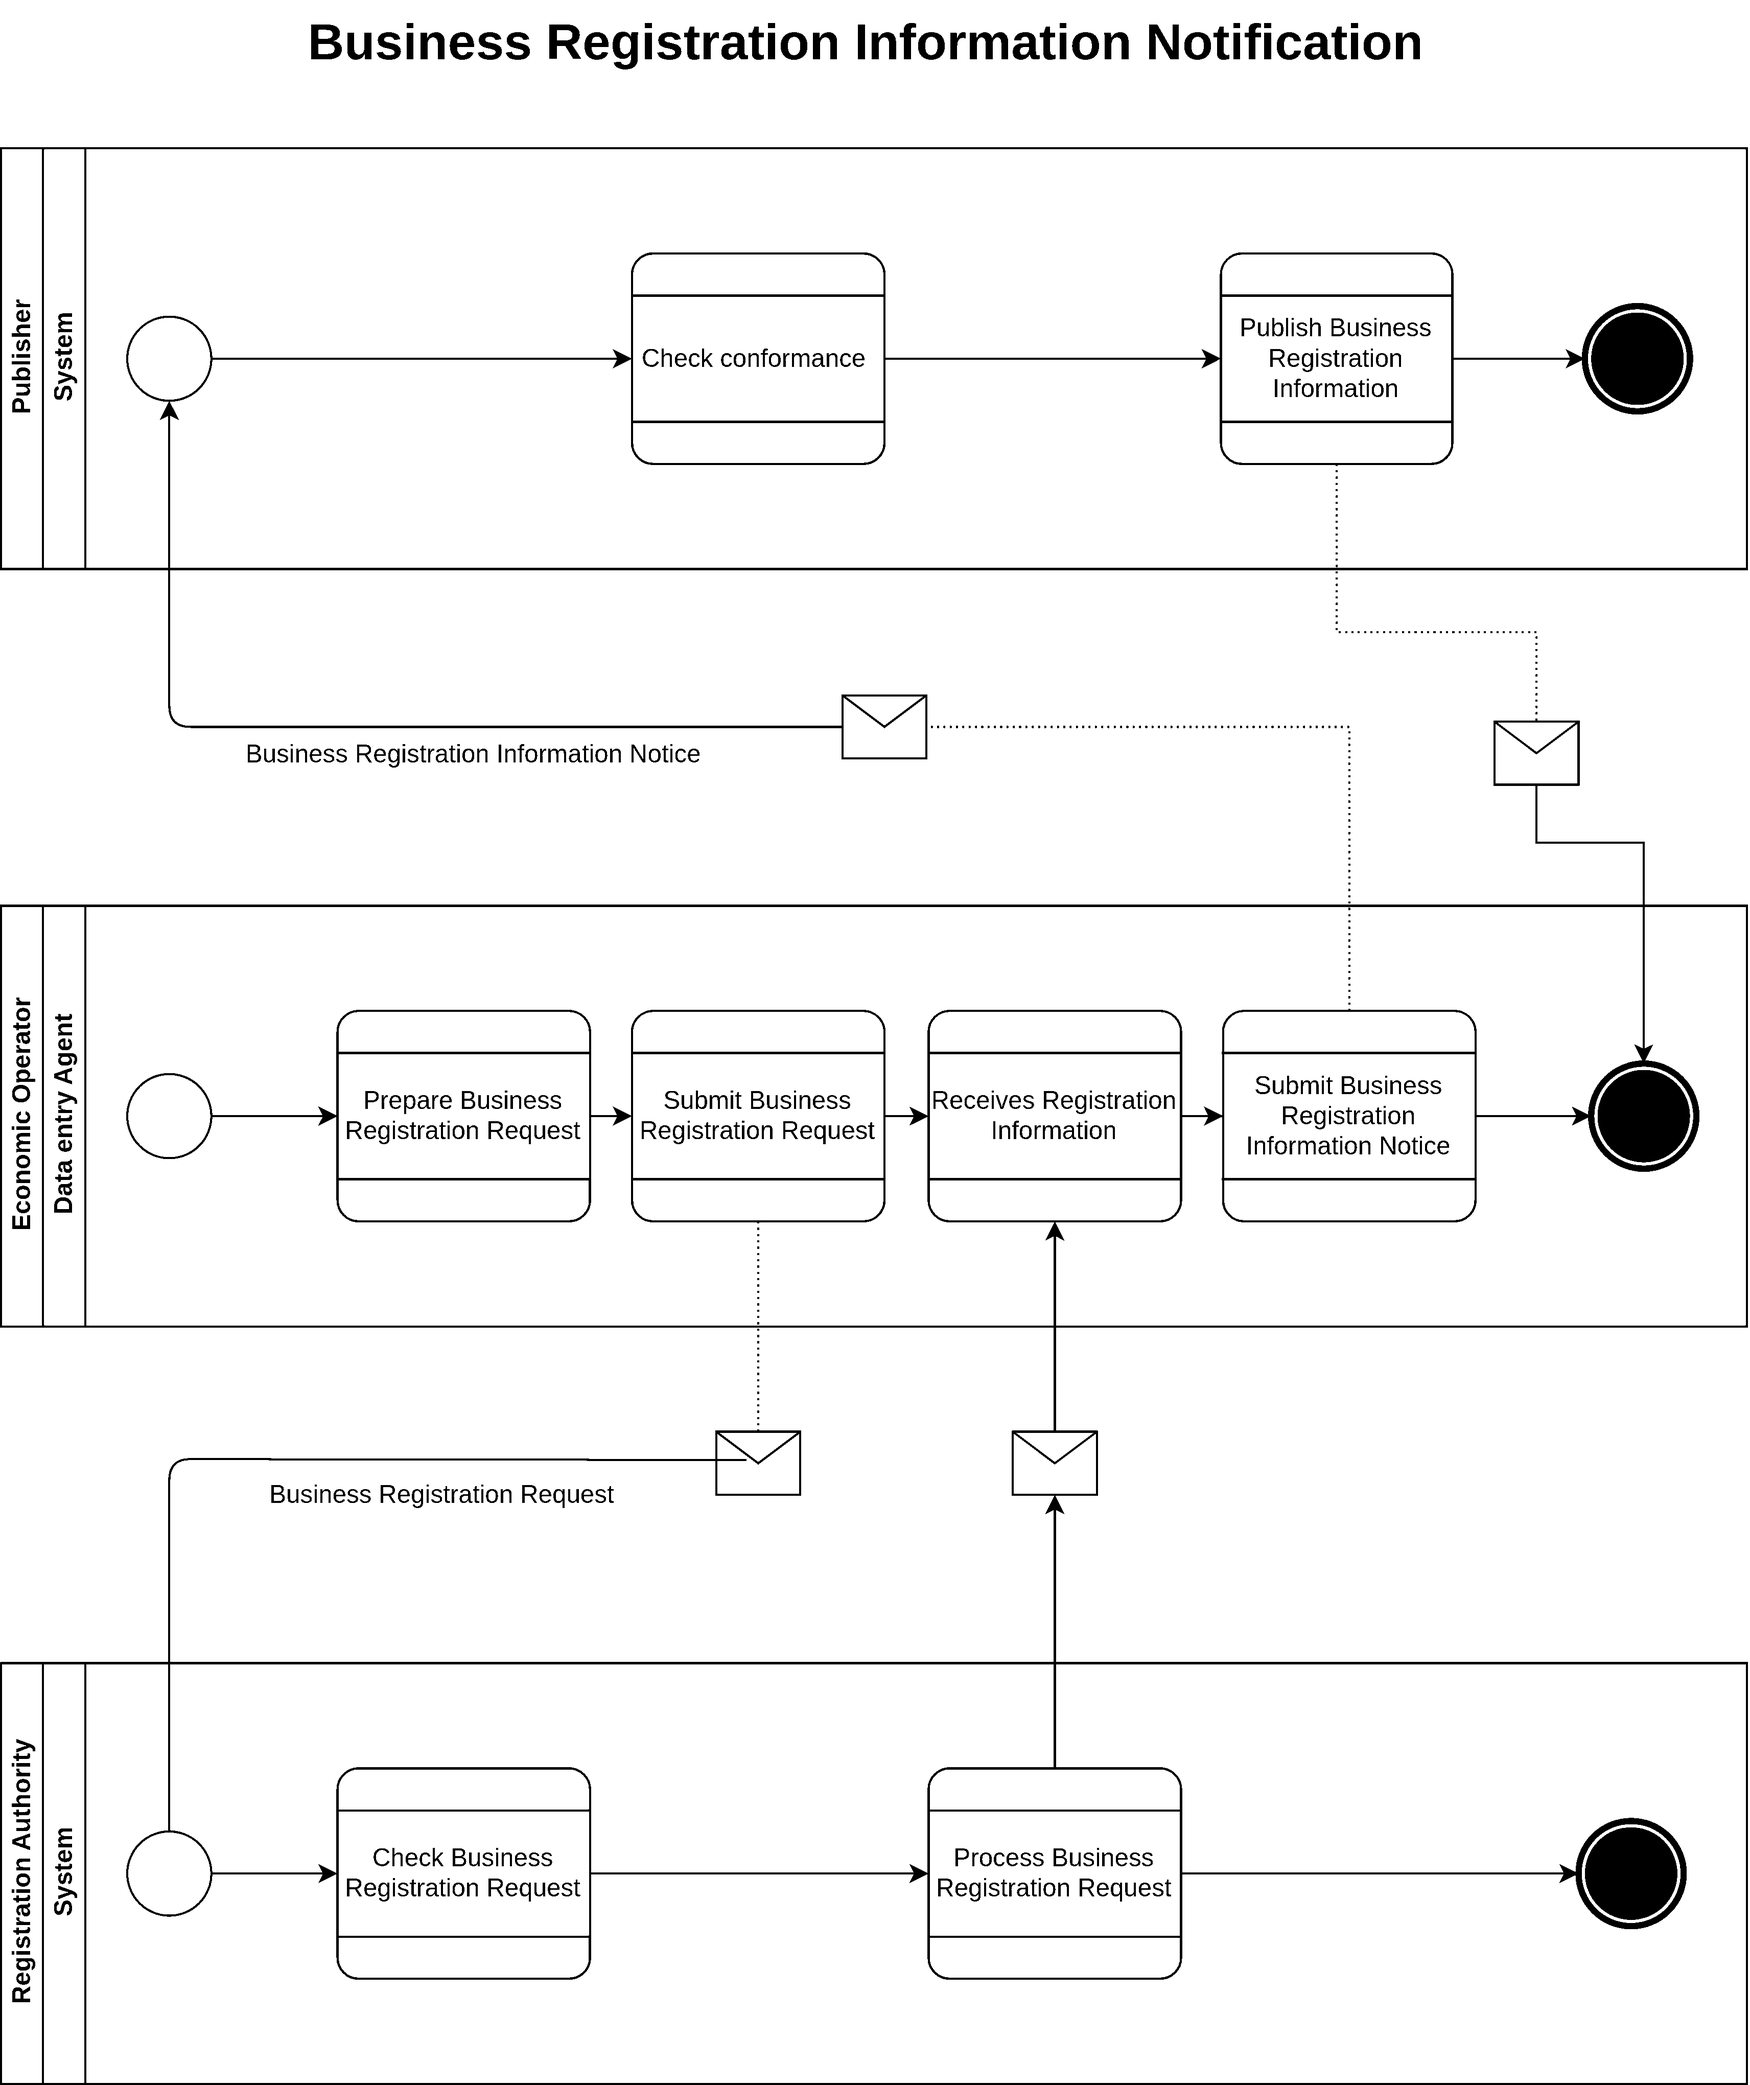
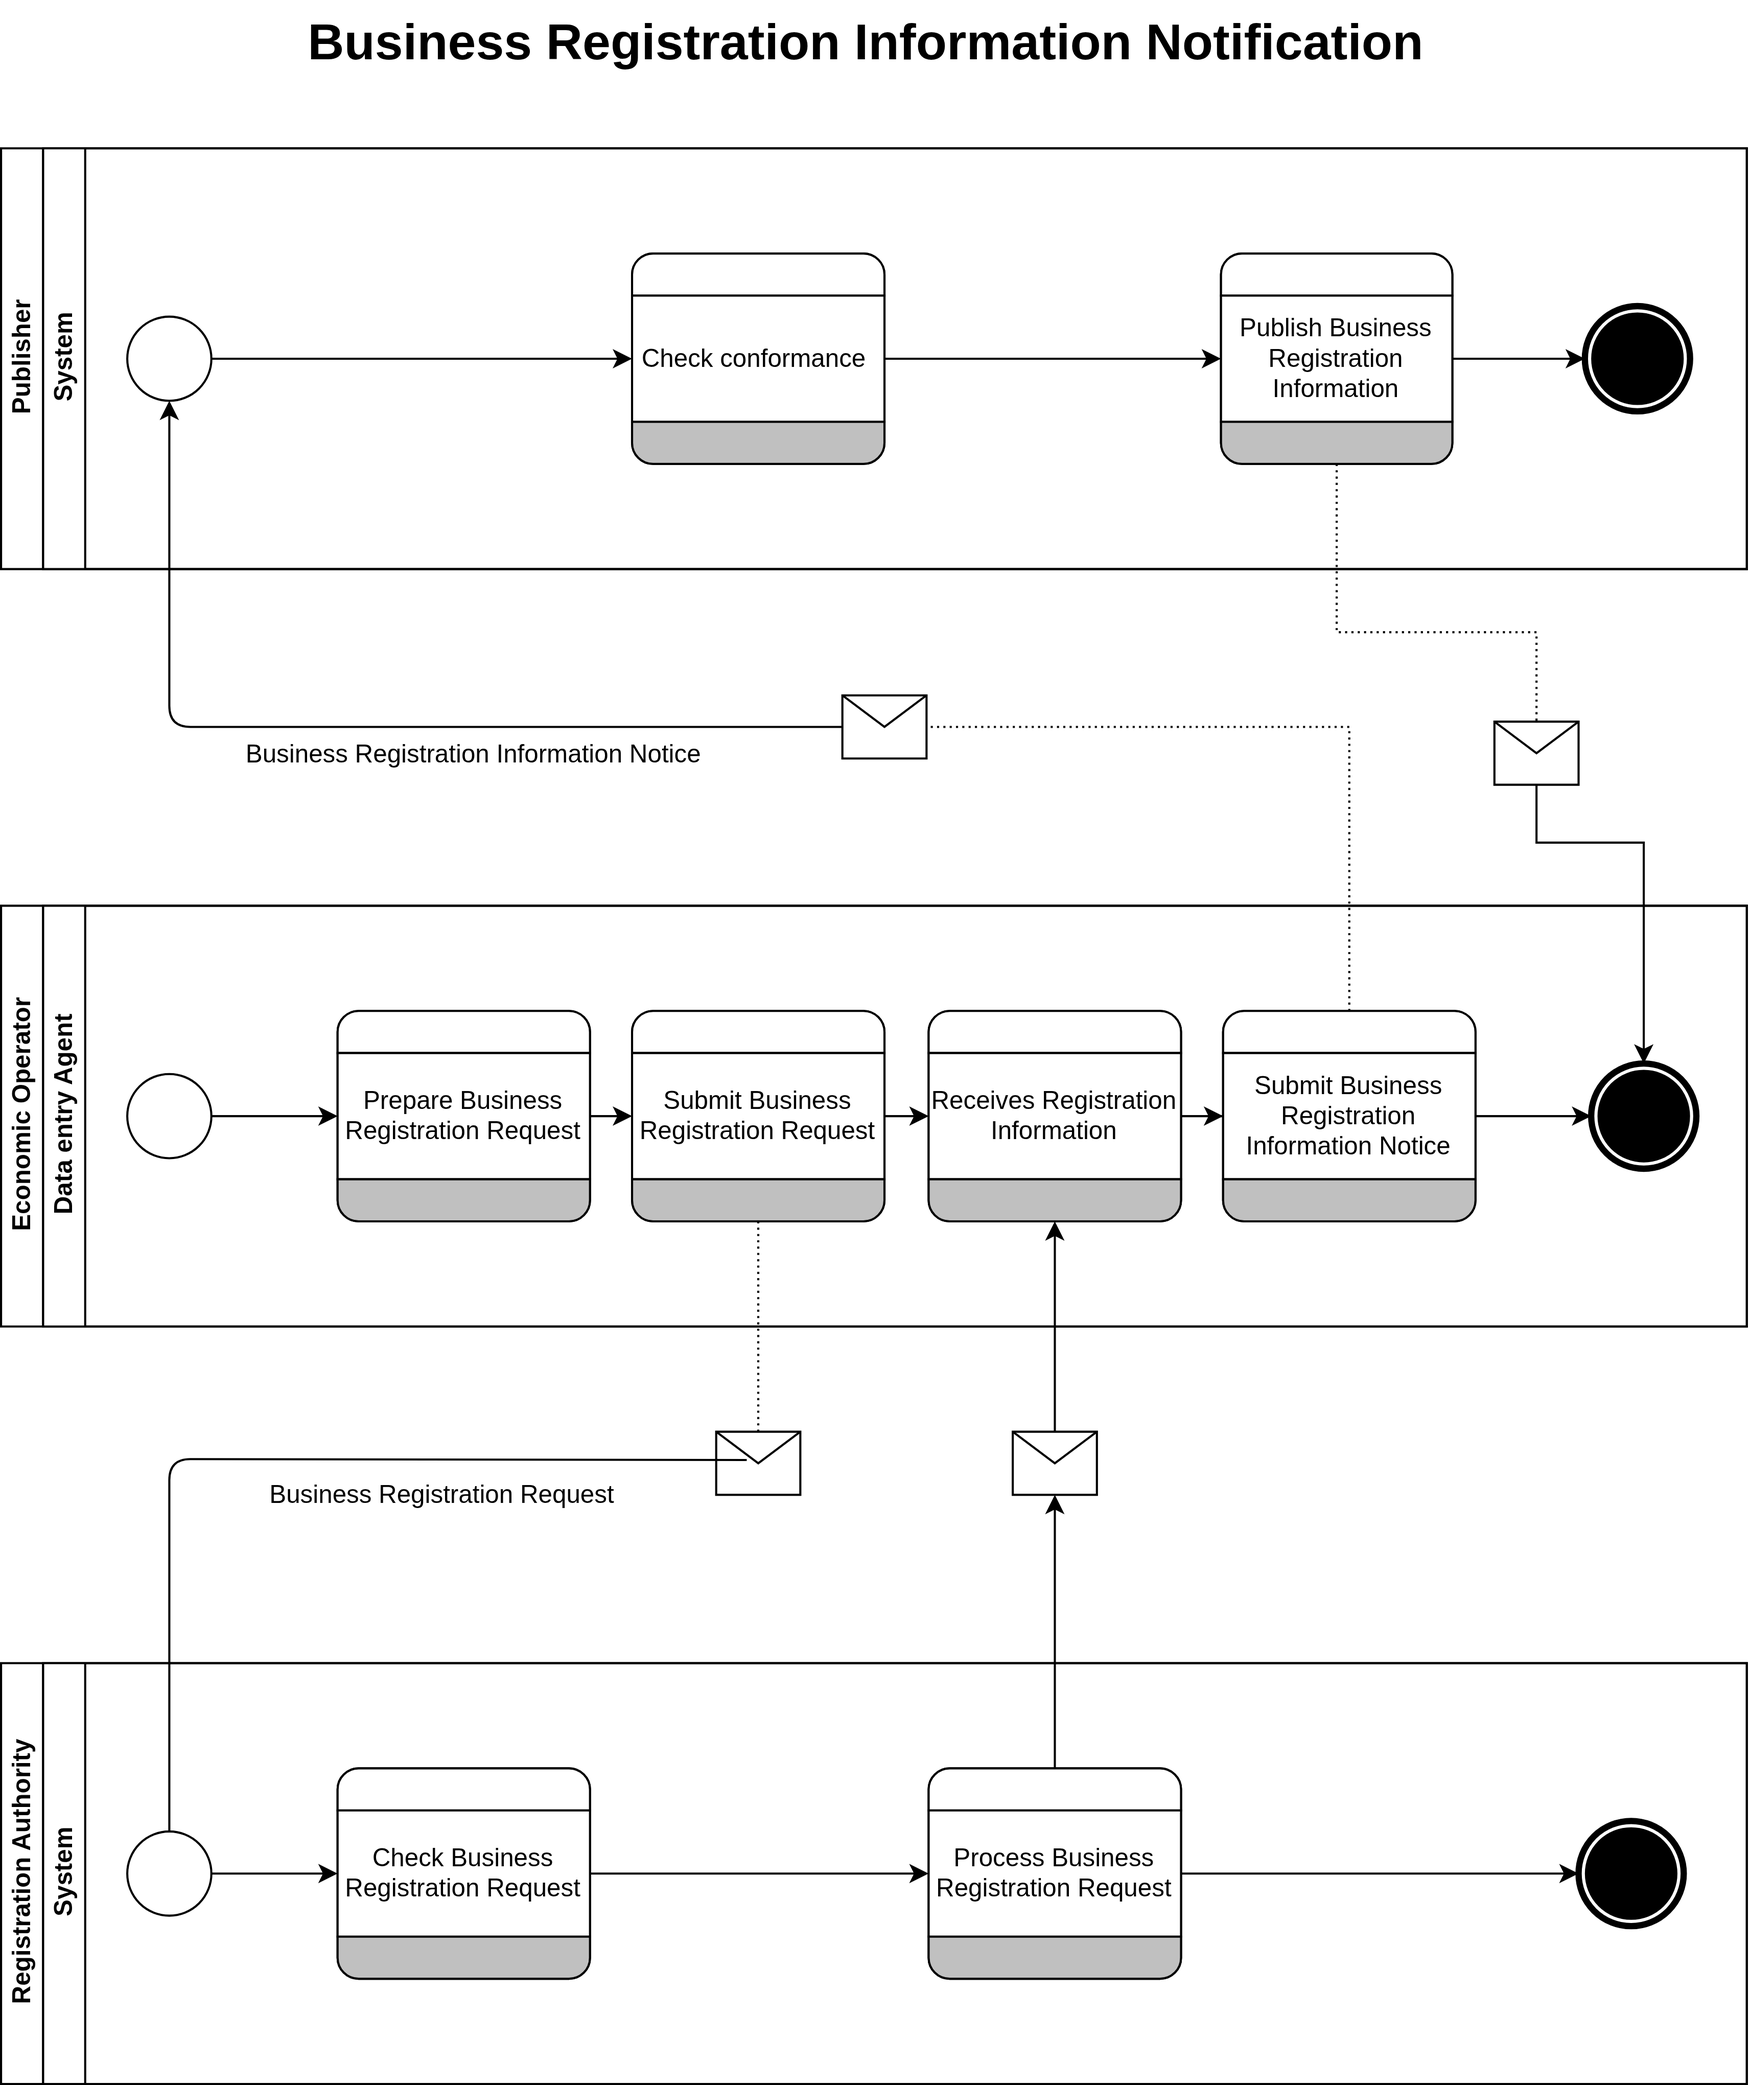
Business Information: the print PNG is greyscale, as the UBL repository's, so the grey footer of its tasks stays
The drawing's marker says ubl-art="grey"; export_drawio.js and check_svg.py read it.

Claude-Session: https://claude.ai/code/session_017KinGBtuGgXkNBHPj2ZMLi

diff --git a/tools/export_drawio.js b/tools/export_drawio.js
@@ -439,7 +439,9 @@ async function png(browser, svgText, pxW, pxH, dpi, bits, out) {
     const htmlW = Math.round(artW * HTML_MAX / ART_MAX);          // 750 at the page's width
     const tall = w => Math.round(w * r.height / r.width);
     // print: black and white, as line art is printed; an illustration's pictures, in grey
-    await png(browser, r.svg, artW, tall(artW), ART_DPI, r.illustration ? 8 : 1, path.join(outDir, 'art', name + '.png'));
+    // (a figure whose drawing says ubl-art="grey", as an illustration, has greyscale print: its grey is meant)
+    const grey = r.illustration || (!file.endsWith('.svg') && /ubl-art="grey"/.test(fs.readFileSync(file, 'utf8')));
+    await png(browser, r.svg, artW, tall(artW), ART_DPI, grey ? 8 : 1, path.join(outDir, 'art', name + '.png'));
     await png(browser, r.svg, htmlW, tall(htmlW), 96, 8, path.join(outDir, 'htmlart', name + '.png'));
     const textPt = Math.round(12 * r.scale * 72 / 96 * 10) / 10;   // the drawings' one text size (12 px)
     report[name] = { width: r.width, height: r.height, scale: Math.round(r.scale * 1000) / 1000,

diff --git a/history/group-a/adopt_originals.py b/history/group-a/adopt_originals.py
@@ -10,7 +10,9 @@ sources here too, at the place and under the name of the others: diagrams/<figur
         - uncompressed, and in the form draw.io's editor writes (tools/drawio_format.py);
           `host` and `agent` of <mxfile>, the page and the window size are the file's own;
         - one element carries `ubl-notation` (bpmn, phase-map): the sign that this figure is not a
-          UML activity diagram, which tools/check_drawio.py and the export look for;
+          UML activity diagram, which tools/check_drawio.py and the export look for; Business
+          Information's also `ubl-art="grey"`: its print PNG is 8 bit grey, not 1 bit (the grey
+          footer of its tasks, which the UBL repository's PNG has);
         - Procurement only: a stray dashed line, 4000 px right of the figure and not in its PNG,
           is taken out: it made the export's page three times too wide.
   UBL-2.3-OrderingProcess (.svg)
@@ -26,14 +28,15 @@ ROOT = os.path.abspath(os.path.join(HERE, '..', '..'))
 sys.path.insert(0, os.path.join(ROOT, 'tools'))
 import drawio_format  # noqa: E402
 
-FIGURES = {   # figure: notation, a cell to take out
-    'UBL-2.3-Pre-awardProcess': ('phase-map', None),
-    'UBL-2.3-ProcurementProcess': ('phase-map', 'H2ljDLKrGr7yGGcZbY4q-120'),
-    'UBL-2.4-BusinessInformation': ('bpmn', None),
+FIGURES = {   # figure: notation, a cell to take out, more properties for the marker
+    'UBL-2.3-Pre-awardProcess': ('phase-map', None, {}),
+    'UBL-2.3-ProcurementProcess': ('phase-map', 'H2ljDLKrGr7yGGcZbY4q-120', {}),
+    # its tasks have a grey (#C0C0C0) footer, which the UBL repository's PNG shows: the print PNG is greyscale too
+    'UBL-2.4-BusinessInformation': ('bpmn', None, {'ubl-art': 'grey'}),
 }
 
 
-def adopt(name, notation, drop):
+def adopt(name, notation, drop, more):
     src = open(os.path.join(HERE, 'sources', name + '.drawio'), encoding='utf-8').read()
     top = ET.fromstring(src)
     diagram = top.find('diagram')
@@ -48,12 +51,14 @@ def adopt(name, notation, drop):
         root.remove(cell[0])
     first = next(el for el in root if el.get('id') not in ('0', '1') and el.tag in ('mxCell', 'object', 'UserObject'))
     if first.tag == 'mxCell':     # an object holds its label (value) and id; the cell keeps the rest
-        obj = ET.Element('object', {'label': first.attrib.pop('value', ''), 'ubl-notation': notation, 'id': first.attrib.pop('id')})
+        obj = ET.Element('object', {'label': first.attrib.pop('value', ''), 'ubl-notation': notation, **more, 'id': first.attrib.pop('id')})
         obj.append(first)
         root.insert(list(root).index(first), obj)
         root.remove(first)
     else:
         first.set('ubl-notation', notation)
+        for k, v in more.items():
+            first.set(k, v)
     d = os.path.join(ROOT, 'diagrams', name)
     os.makedirs(d, exist_ok=True)
     out = os.path.join(d, name + '.drawio')
@@ -61,8 +66,8 @@ def adopt(name, notation, drop):
     return out
 
 
-for name, (notation, drop) in FIGURES.items():
-    print(adopt(name, notation, drop))
+for name, (notation, drop, more) in FIGURES.items():
+    print(adopt(name, notation, drop, more))
 name = 'UBL-2.3-OrderingProcess'
 d = os.path.join(ROOT, 'diagrams', name)
 os.makedirs(d, exist_ok=True)

diff --git a/tools/check_svg.py b/tools/check_svg.py
@@ -147,7 +147,8 @@ def check(out_dir, name):
 
     art_w = round(wmm / 25.4 * ART_DPI)
     drawing = os.path.join(out_dir, 'images', name + '.drawio')
-    illustration = os.path.exists(drawing) and 'ubl-kind="illustration"' in open(drawing, encoding='utf-8').read()
+    illustration = os.path.exists(drawing) and ('ubl-kind="illustration"' in open(drawing, encoding='utf-8').read()
+                                                or 'ubl-art="grey"' in open(drawing, encoding='utf-8').read())   # grey print on purpose
     check_png(os.path.join(out_dir, 'art', name + '.png'), ART_MAX, ART_DPI, art_w, 'L' if illustration else '1', out)
     check_png(os.path.join(out_dir, 'htmlart', name + '.png'), HTML_MAX, None, round(art_w * HTML_MAX / ART_MAX), 'L', out)
     return out

diff --git a/history/group-a/README.md b/history/group-a/README.md
@@ -57,9 +57,10 @@ commits of 2023-02-06 for Business Information).
   print as the PNGs do (the captions of Pre-award at 4.8 pt); the export's report line
   ("text 1.4 pt") assumes the others' 12 px and is wrong for these two. A rescale is a change to
   the TC's drawing; it was made in an experiment (`redrawn/`, below) at 0.3 and could be adopted.
-- **Business Information's grey bars** (`#C0C0C0`, the foot of each task): in the SVG and the
-  web PNG; the print PNG is black and white, where they are white. The drawings of the others
-  are black and white only.
+- **Business Information's grey bars** (`#C0C0C0`, the foot of each task): kept everywhere, as in the
+  UBL repository's PNG. The print PNG of this figure is therefore 8 bit grey, not 1 bit (the only
+  figure but the illustrations: its drawing says `ubl-art="grey"`, which `export_drawio.js` and
+  `check_svg.py` read). Decided 2026-10-05 by looking at both (1 bit lost the grey, the rules stayed).
 - **Business Information's envelopes** on the message flows are draw.io shapes (`shape=message`):
   BPMN 2.0 has no envelope on a message flow (below).
 - **Procurement's and Pre-award's shapes** are loose lines and groups (a phase's outline is five
